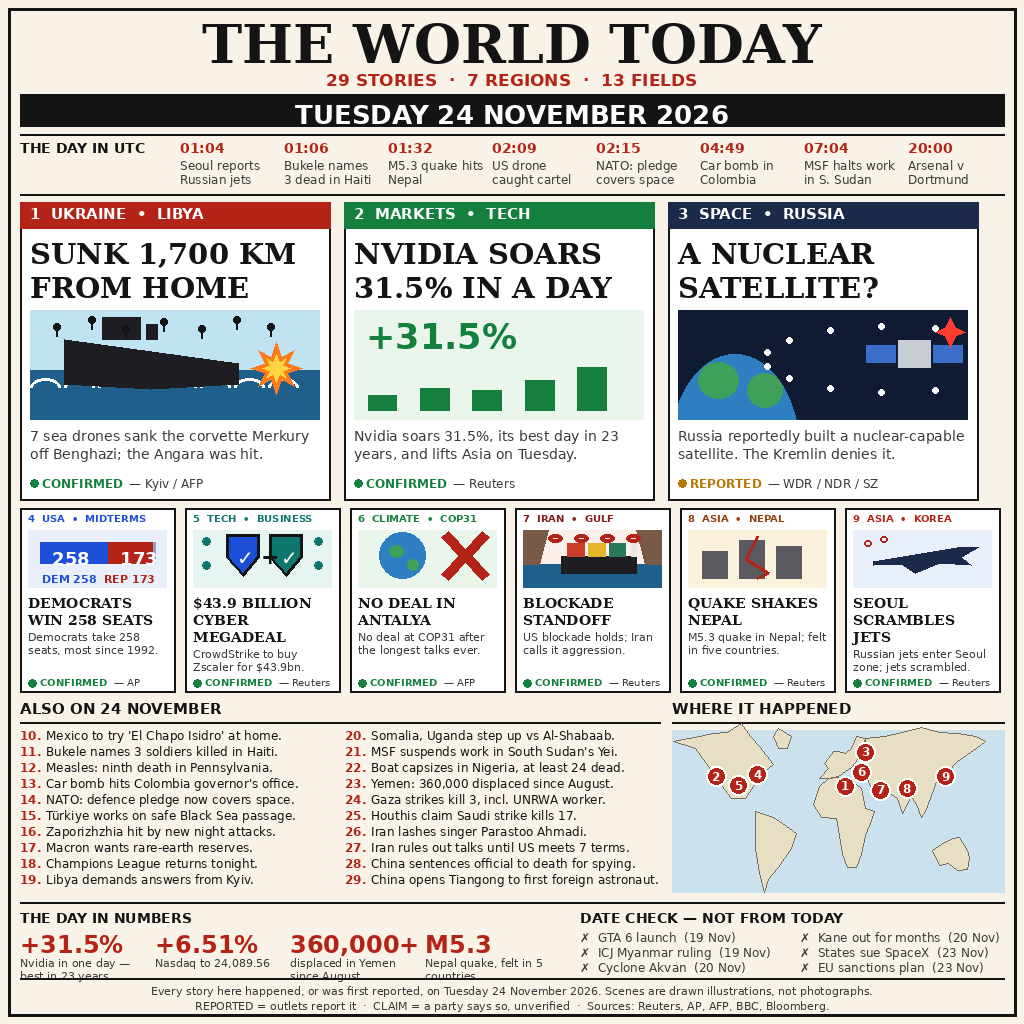
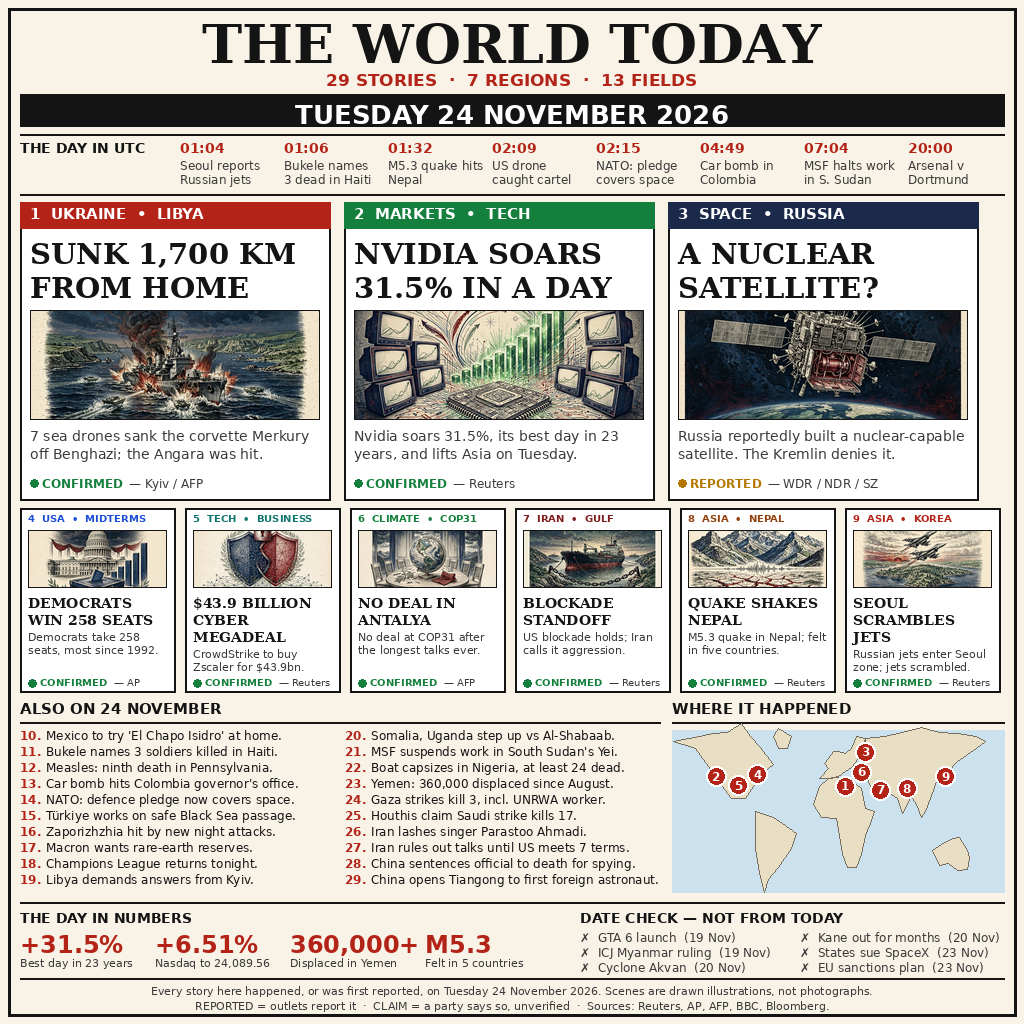
The World Today v3: generated editorial illustrations, numbers fix

diff --git a/draw_news.py b/draw_news.py
@@ -1,4 +1,8 @@
-"""Draw the 24 November 2026 front page, v2 dense (1024x1024) with PIL.
+"""Draw the 24 November 2026 front page, v3 (1024x1024) with PIL.
+
+v3: same 29-story dense layout as v2, but the 9 pictograms are replaced
+by generated editorial illustrations (assets-v3/, engraved style),
+centre-cropped into the lead and medium boxes.
 
 Winner anatomy (from the 17-22 Nov leaderboards, win rates 85-87%):
 masthead with story counts, UTC timeline strip, 3 big leads with
@@ -61,6 +65,24 @@ def trunc(text, fnt, max_w, draw):
     while text and draw.textlength(text + "…", font=fnt) > max_w:
         text = text[:-1]
     return text + "…"
+
+
+ASSETS = Path(__file__).resolve().parent / "assets-v3"
+
+
+def paste_illustration(img, name, x0, y0, x1, y1):
+    """Centre-crop a generated illustration to the box and paste it."""
+    src = Image.open(ASSETS / name).convert("RGB")
+    bw, bh = x1 - x0, y1 - y0
+    sw, sh = src.size
+    scale = max(bw / sw, bh / sh)
+    nw, nh = max(1, round(sw * scale)), max(1, round(sh * scale))
+    src = src.resize((nw, nh), Image.LANCZOS)
+    left = (nw - bw) // 2
+    top = (nh - bh) // 2
+    img.paste(src.crop((left, top, left + bw, top + bh)), (x0, y0))
+    d = ImageDraw.Draw(img)
+    d.rectangle([x0, y0, x1 - 1, y1 - 1], outline=INK)
 
 
 def starburst(draw, cx, cy, r_out, r_in, points, fill):
@@ -396,21 +418,21 @@ def draw_map(d, x0, y0, x1, y1, pins):
 LEADS = [
     dict(num=1, region="Eastern Europe", field="Conflict",
          kicker="UKRAINE  •  LIBYA",
-         color=RED, headline=["SUNK 1,700 KM", "FROM HOME"], picto=picto_sea,
+         color=RED, headline=["SUNK 1,700 KM", "FROM HOME"], image="lead-sea.png",
          caption="7 sea drones sank the corvette Merkury off Benghazi; "
                  "the Angara was hit.",
          tag="CONFIRMED", source="Kyiv / AFP"),
     dict(num=2, region="North America", field="Markets",
          kicker="MARKETS  •  TECH",
          color=(21, 128, 61), headline=["NVIDIA SOARS", "31.5% IN A DAY"],
-         picto=picto_markets,
+         image="lead-nvidia.png",
          caption="Nvidia soars 31.5%, its best day in 23 years, and lifts "
                  "Asia on Tuesday.",
          tag="CONFIRMED", source="Reuters"),
     dict(num=3, region="Eastern Europe", field="Space",
          kicker="SPACE  •  RUSSIA",
          color=(27, 42, 74), headline=["A NUCLEAR", "SATELLITE?"],
-         picto=picto_satellite,
+         image="lead-satellite.png",
          caption="Russia reportedly built a nuclear-capable satellite. "
                  "The Kremlin denies it.",
          tag="REPORTED", source="WDR / NDR / SZ"),
@@ -419,32 +441,32 @@ LEADS = [
 MEDIUMS = [
     dict(num=4, region="North America", field="Politics",
          kicker="USA  •  MIDTERMS",
-         color=BLUE, headline="DEMOCRATS WIN 258 SEATS", picto=picto_midterms,
+         color=BLUE, headline="DEMOCRATS WIN 258 SEATS", image="med-midterms.png",
          caption="Democrats take 258 seats, most since 1992.",
          tag="CONFIRMED", source="AP"),
     dict(num=5, region="North America", field="Business",
          kicker="TECH  •  BUSINESS", color=(15, 118, 110),
-         headline="$43.9 BILLION CYBER MEGADEAL", picto=picto_cyber,
+         headline="$43.9 BILLION CYBER MEGADEAL", image="med-cyber.png",
          caption="CrowdStrike to buy Zscaler for $43.9bn.",
          tag="CONFIRMED", source="Reuters"),
     dict(num=6, region="Western Europe", field="Climate",
          kicker="CLIMATE  •  COP31",
-         color=(21, 128, 61), headline="NO DEAL IN ANTALYA", picto=picto_cop31,
+         color=(21, 128, 61), headline="NO DEAL IN ANTALYA", image="med-cop31.png",
          caption="No deal at COP31 after the longest talks ever.",
          tag="CONFIRMED", source="AFP"),
     dict(num=7, region="Middle East", field="Conflict",
          kicker="IRAN  •  GULF",
-         color=(127, 29, 29), headline="BLOCKADE STANDOFF", picto=picto_iran,
+         color=(127, 29, 29), headline="BLOCKADE STANDOFF", image="med-iran.png",
          caption="US blockade holds; Iran calls it aggression.",
          tag="CONFIRMED", source="Reuters"),
     dict(num=8, region="Asia-Pacific", field="Science",
          kicker="ASIA  •  NEPAL",
-         color=(146, 64, 14), headline="QUAKE SHAKES NEPAL", picto=picto_quake,
+         color=(146, 64, 14), headline="QUAKE SHAKES NEPAL", image="med-nepal.png",
          caption="M5.3 quake in Nepal; felt in five countries.",
          tag="CONFIRMED", source="Reuters"),
     dict(num=9, region="Asia-Pacific", field="Conflict",
          kicker="ASIA  •  KOREA",
-         color=RED, headline="SEOUL SCRAMBLES JETS", picto=picto_plane,
+         color=RED, headline="SEOUL SCRAMBLES JETS", image="med-seoul.png",
          caption="Russian jets enter Seoul zone; jets scrambled.",
          tag="CONFIRMED", source="Reuters"),
 ]
@@ -507,10 +529,10 @@ TIMELINE = [
 
 # (big figure, label)
 NUMBERS = [
-    ("+31.5%", "Nvidia in one day — best in 23 years"),
+    ("+31.5%", "Best day in 23 years"),
     ("+6.51%", "Nasdaq to 24,089.56"),
-    ("360,000+", "displaced in Yemen since August"),
-    ("M5.3", "Nepal quake, felt in 5 countries"),
+    ("360,000+", "Displaced in Yemen"),
+    ("M5.3", "Felt in 5 countries"),
 ]
 
 # (what, real date) — 2 columns x 3 rows
@@ -557,11 +579,7 @@ def draw_lead(img, d, s, x, y, w, h):
     for line in s["headline"][:2]:
         d.text((x + 10, hy), line, font=font(SERIF_B, 29), fill=INK)
         hy += 34
-    pw, ph = w - 20, 110
-    layer = Image.new("RGB", (pw, ph), WHITE)
-    ld = ImageDraw.Draw(layer)
-    s["picto"](ld, 0, 0, pw, ph)
-    img.paste(layer, (x + 10, y + 108))
+    paste_illustration(img, s["image"], x + 10, y + 108, x + w - 10, y + 218)
     cap = wrap(s["caption"], font(SANS, 14), w - 20, d)
     if len(cap) > 2:
         print(f"WARNING: lead caption {len(cap)} lines: {s['kicker']}")
@@ -576,11 +594,7 @@ def draw_medium(img, d, s, x, y, w, h):
     d.rectangle([x, y, x + w, y + h], fill=WHITE, outline=INK, width=2)
     d.text((x + 8, y + 4), f"{s['num']}  {s['kicker']}",
            font=font(SANS_B, 10), fill=s["color"])
-    pw, ph = w - 16, 58
-    layer = Image.new("RGB", (pw, ph), WHITE)
-    ld = ImageDraw.Draw(layer)
-    s["picto"](ld, 0, 0, pw, ph)
-    img.paste(layer, (x + 8, y + 22))
+    paste_illustration(img, s["image"], x + 8, y + 22, x + w - 8, y + 80)
     lines = wrap(s["headline"], font(SERIF_B, 14), w - 16, d)
     hy = y + 86
     for line in lines[:3]:

diff --git a/README.md b/README.md
@@ -50,11 +50,14 @@ Harry Kane's injury, the states suing SpaceX, the EU sanctions plan).
     foreign astronaut.
 
 Every story is labelled CONFIRMED, REPORTED or CLAIM, with its source.
-All artwork is original, drawn with code — no photographs, no copied logos.
+All artwork is original — the 9 lead and medium illustrations are
+generated editorial drawings (in `assets-v3/`), the rest is drawn with
+code. No photographs, no copied logos.
 
 ## How it is built
 
-`draw_news.py` draws the 1024x1024 front page with PIL (DejaVu fonts) and
+`draw_news.py` draws the 1024x1024 front page with PIL (DejaVu fonts),
+compositing the generated editorial illustrations from `assets-v3/`, and
 writes `entry.png`. `main.py` (Python standard library only, no network)
 copies that image to the output directory the grader reads.
 
